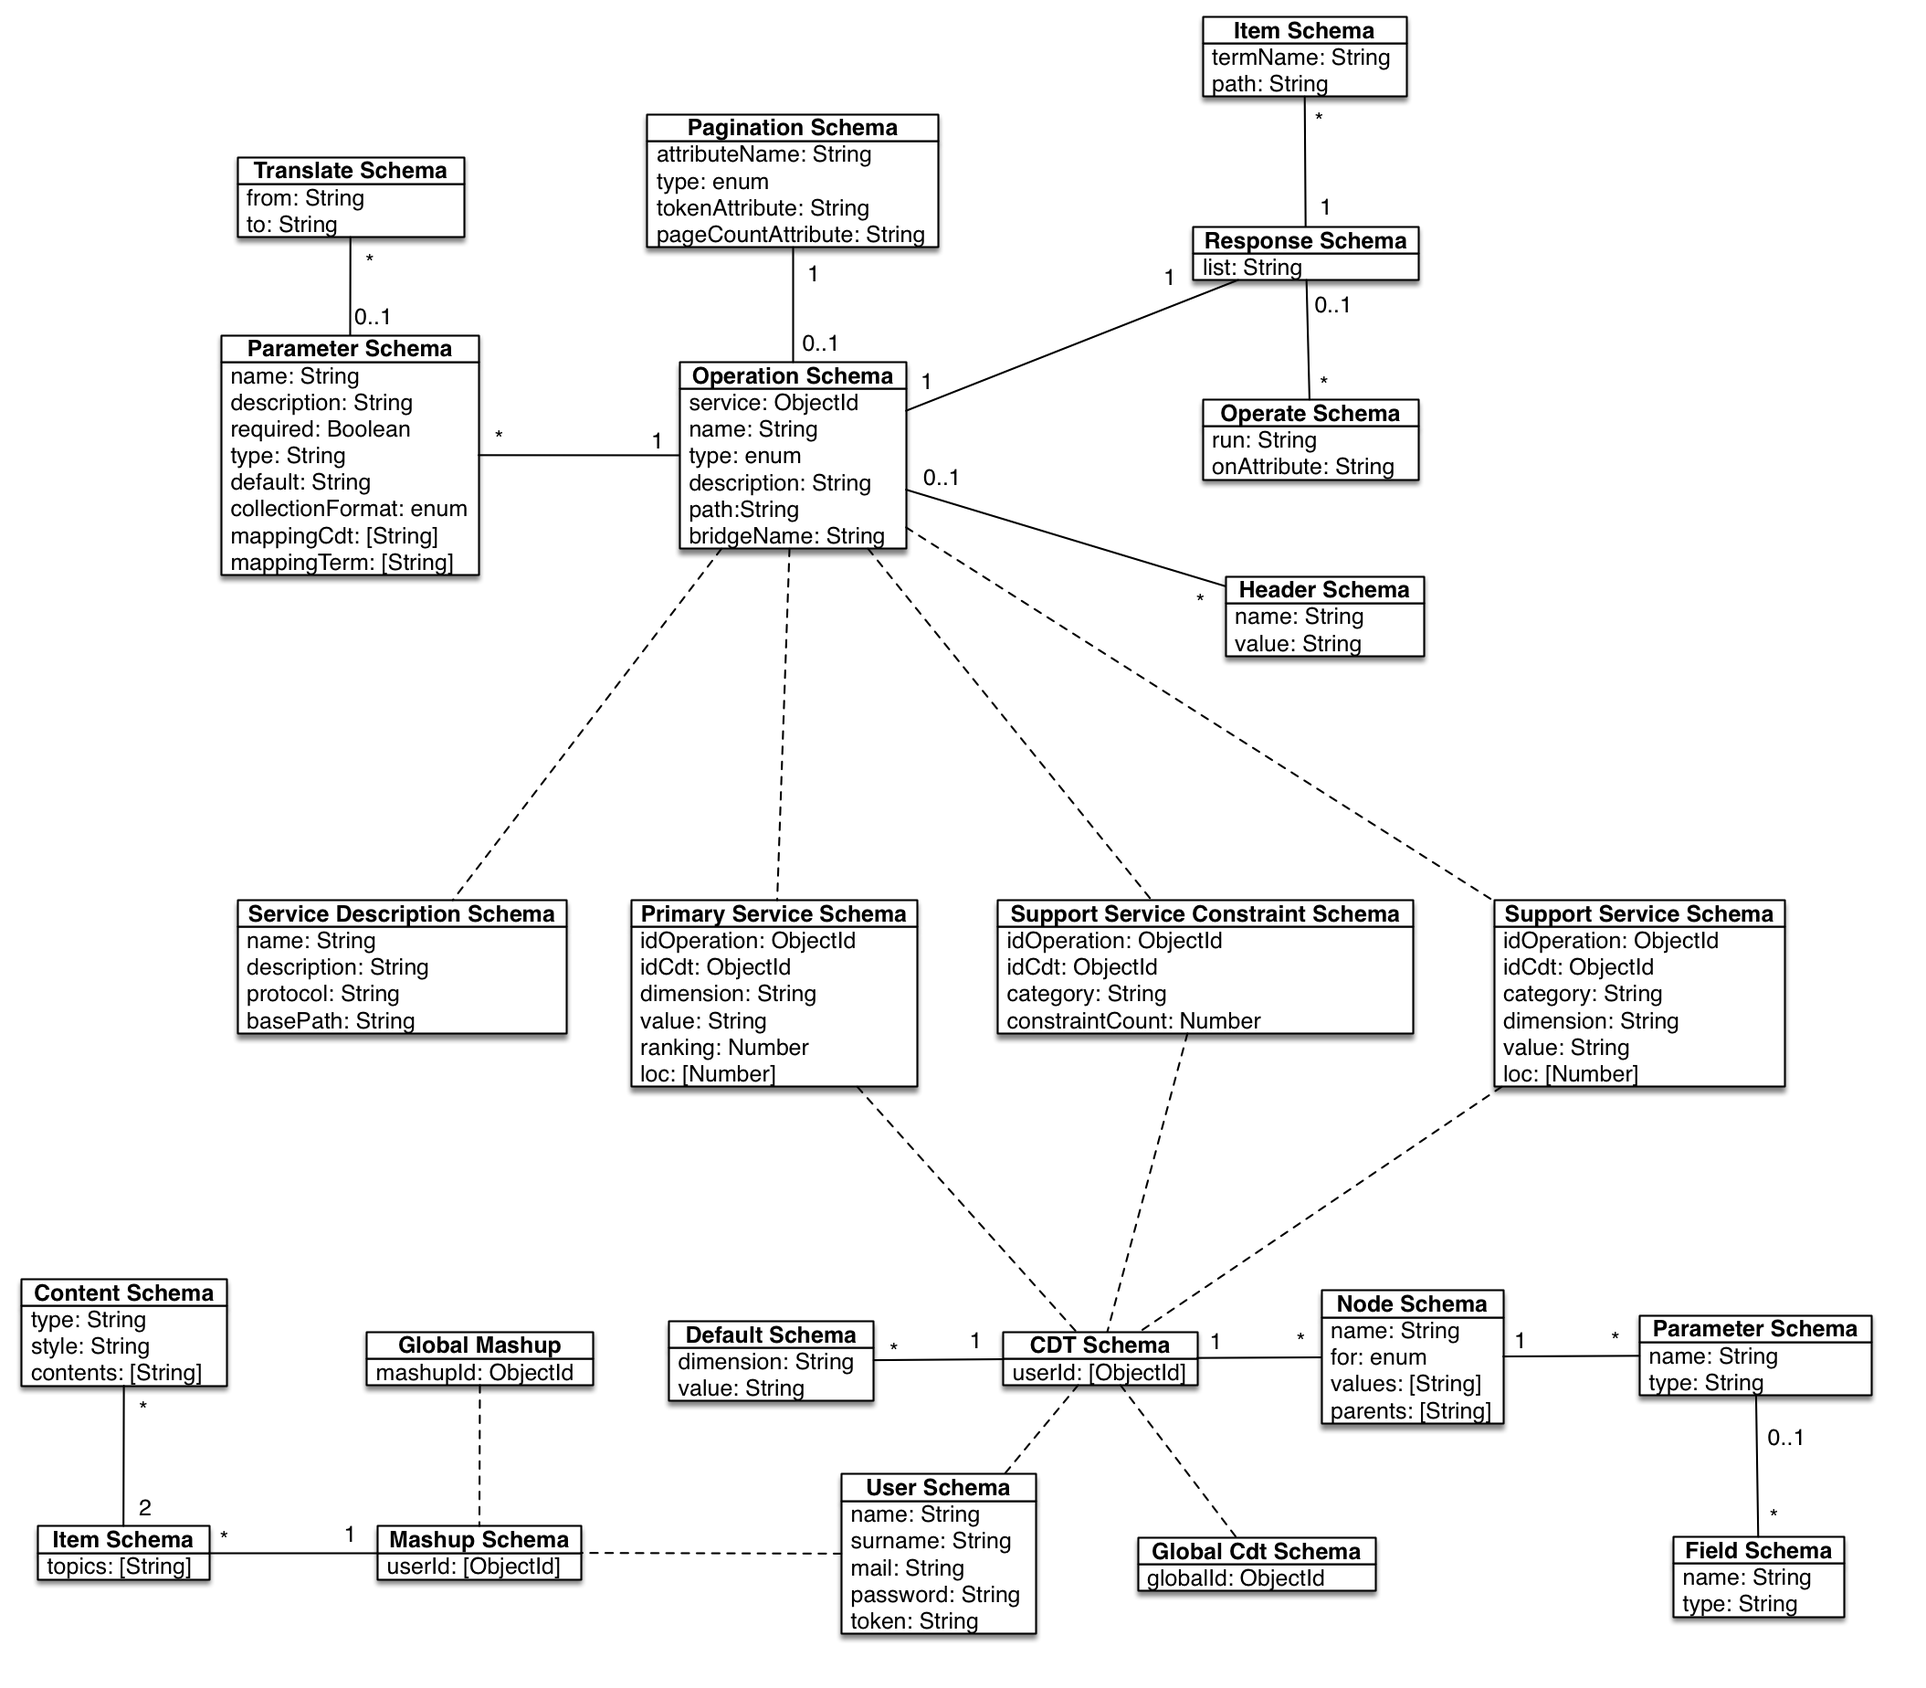
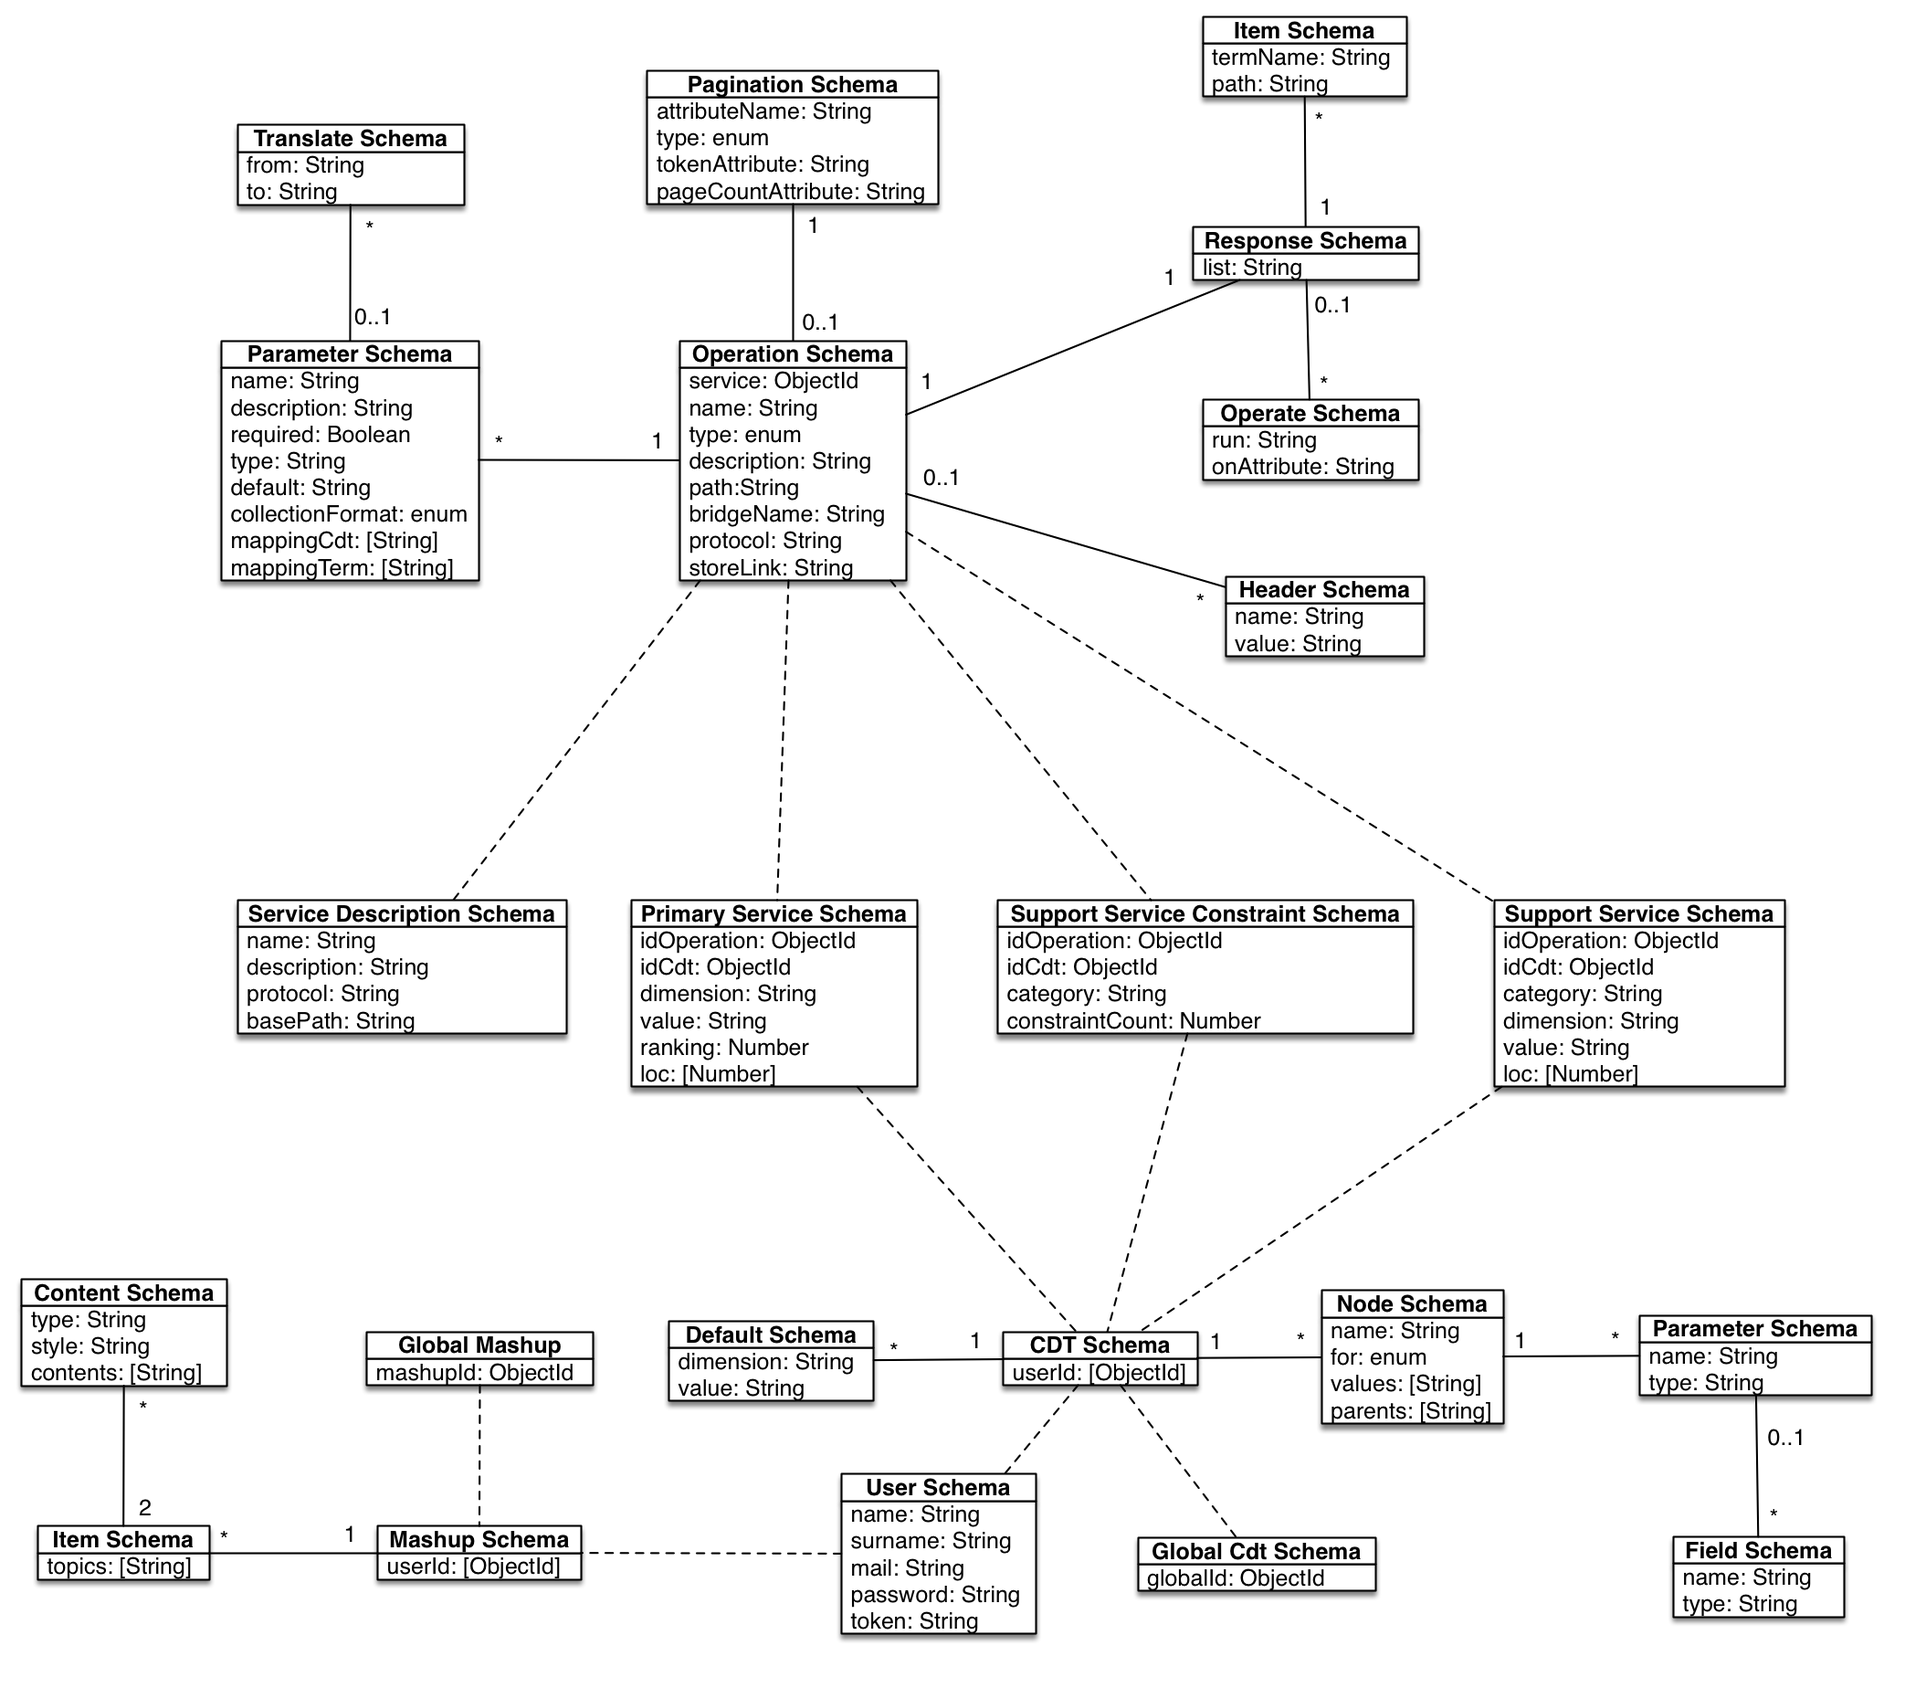
Correzione nel capitolo implementazione backend

diff --git a/5-implementazione-backend/implementazione-backend.tex b/5-implementazione-backend/implementazione-backend.tex
@@ -169,6 +169,8 @@ Rappresenta le operazioni che sono messe a disposizione dal servizio. Un'operazi
 	\item \textbf{Type} Rappresenta la tipologia dell'operazione. Un'operazione può essere \emph{primaria} o di \emph{supporto}. Questa distinzione viene utilizzata principalmente per permettere la catalogazione delle operazioni da mostrare nelle web app
 	\item \textbf{Description} La descrizione dell'attività svolta dall'operazione
 	\item \textbf{Path} Il percorso specifico per richiamare l'operazione. Questo valore viene aggiunto al \emph{Base Path} del servizio. Deve essere sempre preceduto da una slash (\virgolette{/})
+	\item \textbf{Protocol} Permette di ridefinire esclusivamente per l'operazione corrente il protocollo utilizzato. \upe utile nei casi in cui un'operazione, per una qualsiasi ragione, utilizza un paradigma di composizione della query diverso da quello specificato dal servizio. Per esempio, viene utilizzato per mappare gli intent su diversi sistemi operativi, che hanno diverse regole di composizione. Oltre alle tipologie definite per i \emph{servizi} supporta anche il protocollo \virgolette{android}
+	\item \textbf{Store Link} Utilizzato esclusivamente per i servizi di supporto, permette di definire il link nello store di riferimento per scaricare l'app necessaria a utilizzare l'intent associato
 	\item \textbf{Bridge Name} Questo campo è opzionale, definisce il nome del bridge con la logica necessaria per invocare il servizio. \upe obbligatorio il suo utilizzo quando per il servizio viene utilizzato il protocollo \emph{custom}
 	\item \textbf{Parameters} Definisce l'elenco dei parametri accettati in ingresso dall'operazione. Per ulteriori dettagli su questo oggetto si fa riferimento alla Sezione \ref{sec:descrittore-parametri}
 	\item \textbf{Headers} Permette di specificare gli attributi da aggiungere all'header della richiesta. Vengono utilizzati i campi \virgolette{name} per specificare il nome dell'attributo e \virgolette{value} per specificarne il valore
@@ -314,59 +316,16 @@ Di seguito viene presentata una descrizione dettagliata delle entità che compon
 \begin{itemize}
 	\item \textbf{User} \upe l'entità che rappresenta un utente. Ogni utente viene descritto dal nome, cognome, indirizzo email, password e da un token che viene utilizzato per identificare la sessione. Un utente può possedere nessuno o più CDT
 	\item \textbf{Cdt} Rappresenta la radice di un albero di contesto. Un albero di contesto può essere posseduto da zero o più utenti. Il \emph{CDT Globale} è l'unico caso nel quale non vengono associati utenti, perché è universale e quindi valido per chiunque. In tutti gli altri casi si tratta di \emph{CDT su misura}, che devono quindi essere associati ad almeno un utente. Viene lasciata la possibilità di associazione con più utenti nel caso il loro profilo sia molto simile
-	\item \textbf{Node} Rappresenta un nodo \emph{dimensione} del CDT e viene descritto dai seguenti attributi:
-	\begin{itemize}
-		\item \emph{Name} Il nome del nodo
-		\item \emph{For} Descrive la tipologia del nodo, che verrà utilizzata per assegnare un peso utile nella fase di \emph{selezione delle operazioni} e per attribuire un valore ai parametri nella fase di \emph{invocazione dei servizi}. I valori ammessi sono \emph{filter}, \emph{parameter}, \emph{ranking}, \emph{filter}|\emph{parameter} o \emph{ranking}|\emph{parameter}. Se viene definito il tipo \emph{parameter} possono essere assegnati al nodo diverse entità di tipo \virgolette{Node Parameter}, per specificarne le caratteristiche
-		\item \emph{Parents} Contiene l'elenco di tutti i nodi dai quali discende il nodo corrente
-		\item \emph{Values} Elenca i valori ammessi dal nodo dimensione corrente. Corrispondono ai nodi di tipo \emph{contesto} nel modello del CDT
-	\end{itemize}
-	\item \textbf{Node Parameter} Questa entità rappresenta un parametro associato ad un nodo del CDT. Viene caratterizzato dai seguenti campi:
-	\begin{itemize}
-		\item \emph{Name} Definisce il nome del parametro
-		\item \emph{Type} Il/I formato/i del dato che vengono accettati
-	\end{itemize}
-	Ad un parametro possono essere associati diversi \virgolette{campi}, nel caso in cui un parametro sia definito da diversi sottoattributi. Per esempio, il parametro \emph{Località} può essere specializzato nei campi \emph{Latitudine} e \emph{Longitudine}
+	\item \textbf{Node} Rappresenta un nodo \emph{dimensione} del CDT
+	\item \textbf{Node Parameter} Questa entità rappresenta un parametro associato ad un nodo del CDT. Ad un parametro possono essere associati diversi \virgolette{campi}, nel caso in cui un parametro sia definito da diversi sottoattributi. Per esempio, il parametro \emph{Località} può essere specializzato nei campi \emph{Latitudine} e \emph{Longitudine}
 	\item \textbf{Field} \upe l'entità che rappresenta un campo di un parametro. \upe composto dal \virgolette{nome} che assume ed il \virgolette{tipo}, che descrive il formato del campo
 	\item \textbf{Default Value} Questa entità elenca le coppie dimensione-valore che sono preimpostate, in quanto non subiscono variazioni per l'utente ed è inutile che gli vengano continuamente riproposte. Vengono salvati solamente il nome della \virgolette{dimensione} ed il relativo \virgolette{valore}
 	\item \textbf{GlobalCdt} Entità che mantiene il riferimento al \emph{CDT Globale}, che viene utilizzato come base per la costruzione di tutti gli alberi di contesto del sistema
-	\item \textbf{Service} Entità che rappresenta un servizio, definito dai seguenti campi:
-	\begin{itemize}
-		\item \emph{Name} Il nome del servizio
-		\item \emph{Description} Una descrizione delle operazioni che vengono svolte dal servizio
-		\item \emph{Base Path} Definisce l'indirizzo base al quale è possibile contattare il servizio. Viene utilizzato insieme ai \emph{path} specifici di ogni operazione per formare l'indirizzo completo
-		\item \emph{Protocol} Specifica la tipologia di servizio e può assumere i valori \emph{rest}, \emph{query} o \emph{custom}. Per i primi due casi esiste un'implementazione fornita assieme al sistema mentre per l'ultimo caso è necessario specificare quale bridge specifico viene utilizzato per invocare il servizio
-	\end{itemize}
-	Un servizio deve esporre almeno un'\emph{operazione} per poter essere utilizzato
-	\item \textbf{Operation} Un'operazione rappresenta l'elemento essenziale affinché un servizio possa essere invocato. Possiede i seguenti attributi:
-	\begin{itemize}
-		\item \emph{Name} Il nome dell'operazione. Questo campo viene utilizzato principalmente per avere un riferimento intuitivo delle varie operazioni che vengono esposte da ogni servizio e può essere scelto a proprio piacimento
-		\item \emph{Description} Descrizione dell'attività che viene svolta dall'operazione
-		\item \emph{Path} Definisce il percorso specifico verso il quale richiamare l'operazione. Questo campo viene concatenato assieme al \emph{basePath} definito dal servizio per formare l'indirizzo completo
-		\item \emph{Type} Specifica se l'operazione è di tipo \emph{primario} o di \emph{supporto}. Questa distinzione è più di carattere categorico che funzionale, in quanto non ci sono particolari variazioni tra le due tipologie di operazione. Viene utilizzato dallo strumento di \emph{Visual Mapping} per elencare nello spazio più appropriato le varie operazioni
-		\item \emph{Bridge Name} Questo campo definisce il nome dell'implementazione specifica del bridge da utilizzare per invocare il servizio. \upe necessario solamente nel caso in cui il servizio utilizzi un protocollo \emph{custom}
-	\end{itemize}
-	Ogni operazione ha una serie di informazioni di contorno che possono essere associate. Deve obbligatoriamente definire un'entità per descrivere il formato della \emph{risposta} che riceve e può esporre gli attributi necessari per gestire la \emph{paginazione} dei risultati. Possono essere associati più campi relativi ai valori da aggiungere all'\emph{header} della chiamata quando necessari. Affinché un'operazione sia utilizzabile, è necessario definire almeno un \emph{parametro} per assegnare i valori che il servizio utilizzerà per comporre la risposta
-	\item \textbf{Parameter} Questa entità specifica come sono formati gli attributi che compongono un parametro. In particolare viene descritta dai seguenti campi:
-	\begin{itemize}
-		\item \emph{Name} Il nome del parametro
-		\item \emph{Type} Il formato del valore associato al parametro
-		\item \emph{Description} La descrizione della semantica del parametro
-		\item \emph{Required} Valore booleano che specifica se il parametro è obbligatorio o meno per l'operazione associata. Di default assume valore \emph{false}
-		\item \emph{Default} Specifica un valore predefinito, che viene utilizzato in particolare nella fase di \emph{Visual Mapping} per mostrare una risposta di esempio
-		\item \emph{Collection Format} Viene utilizzato solamente nel caso in cui ci siano più valori associati e definisce il separatore da usare per dividere i valori. I separatori riconosciuti sono \emph{csv} (comma separated values), \emph{ssv} (space separated values), \emph{tsv} (tab separated values) e \emph{pipes}.
-		\item \emph{Mapping Term} Viene utilizzato per associare il parametro ad uno dei \emph{termini semantici} conosciuti dal sistema. Viene utilizzato per la composizione della query per i servizi di supporto ed accetta la definizione di più termini
-		\item \emph{Mapping Cdt} Specifica da quale nodo dell'\emph{albero di contesto} è possibile recuperare il valore da associare al parametro. Possono essere aggiunti più nodi verso i quali andare a cercare i valori
-	\end{itemize}
-	In alcuni casi può essere anche definita una \emph{traduzione} per permettere di trasformare il valore definito dal contesto in uno più idoneo per il servizio
+	\item \textbf{Service} Entità che rappresenta un servizio, definito dai seguenti campi. Un servizio deve esporre almeno un'\emph{operazione} per poter essere utilizzato
+	\item \textbf{Operation} Un'operazione rappresenta l'elemento essenziale affinché un servizio possa essere invocato. Ogni operazione ha una serie di informazioni di contorno che possono essere associate. Deve obbligatoriamente definire un'entità per descrivere il formato della \emph{risposta} che riceve e può esporre gli attributi necessari per gestire la \emph{paginazione} dei risultati. Possono essere associati più campi relativi ai valori da aggiungere all'\emph{header} della chiamata quando necessari. Affinché un'operazione sia utilizzabile, è necessario definire almeno un \emph{parametro} per assegnare i valori che il servizio utilizzerà per comporre la risposta
+	\item \textbf{Parameter} Questa entità specifica come sono formati gli attributi che compongono un parametro. In alcuni casi può essere anche definita una \emph{traduzione} per permettere di trasformare il valore definito dal contesto in uno più idoneo per il servizio
 	\item \textbf{Translate} Questa entità definisce come effettuare una traduzione da un valore, generalmente recuperato dall'albero di contesto, verso un altro riconosciuto dal servizio. Viene semplicemente descritta dai campi \virgolette{from} e \virgolette{to}, che rappresentano rispettivamente il valore originale e la sua traduzione finale
-	\item \textbf{Pagination} Specifica quali sono gli attributi della risposta usati per gestire la paginazione dei risultati. In particolare, sono necessarie le seguenti informazioni:
-	\begin{itemize}
-		\item \emph{Attribute Name} Definisce il nome del parametro utilizzato dall'operazione per richiamare la pagina successiva. Deve corrispondere al nome fornito dal gestore del servizio
-		\item \emph{Type} Specifica il tipo di paginazione utilizzata dal servizio. Il sistema supporta due tipologie: \emph{i)} number, dove viene utilizzato un numero per identificare ogni pagina; \emph{ii)} token, dove vengono generati diversi token per richiamare le diverse pagine
-		\item \emph{Page Count Attribute} Indica il nome del campo della risposta che contiene il numero totale di pagine che sono disponibili per la query corrente. Viene utilizzato unicamente nel caso sia stato scelto come tipo \emph{number}. Serve al sistema per sapere fino a quando è possibile incrementare il numero di pagina per recuperare nuove informazioni
-		\item \emph{Token Attribute} Indica il nome del campo della risposta che contiene il token alla pagina successiva. Viene utilizzato unicamente nel caso sia stato scelto come tipo \emph{token}. Il token recuperato viene utilizzato nella query successiva per richiedere la nuova pagina con altre informazioni. A differenza del caso precedente non è possibile sapere a priori quante siano le pagine in totale. Semplicemente, quando il servizio non fornisce più token significa che non sono più disponibili ulteriori pagine
-	\end{itemize}
+	\item \textbf{Pagination} Specifica quali sono gli attributi della risposta usati per gestire la paginazione dei risultati
 	\item \textbf{Header} Questa entità definisce gli attributi che devono essere aggiunti all'header di un richiesta. \upe formato dal \virgolette{nome} del campo ed il \virgolette{valore} da associargli
 	\item \textbf{Response} \upe l'entità che descrive il formato della risposta ricevuta e definisce come mappare gli attributi che la compongono con i termini semantici. Viene utilizzato il campo \virgolette{list} per specificare il percorso all'interno della risposta dove è possibile andare a recuperare l'elenco dei risultati. Se non specificato viene presa la radice dell'oggetto ricevuto. Inoltre vengono definite diverse associazioni con l'entità \emph{Item}, che definisce come mappare ogni singolo elemento della risposta ai rispettivi termini semantici. In aggiunta è possibile definire delle funzioni che vengono eseguite in seguito alla fase di trasformazione, per permettere la personalizzazione dei valori ricevuti
 	\item \textbf{Item} Permette di definire la regola con la quale convertire un campo della risposta nel relativo termine semantico. \upe composto dal campo \virgolette{path}, che specifica il percorso del campo, e \virgolette{termName}, che definisce il termine da associargli
@@ -679,6 +638,10 @@ Nel Listato \ref{lst:esempio-richiesta-execute-query} viene mostrato un esempio 
 			{
 				@dimension@: ~"Transport"~,
 				@value@: ~"PublicTransport"~
+			},
+			{
+				@dimension#: ~"OS"~,
+				@value@: ~"iOS"~
 			}
 		],
 		@support@: [~"Transport"~]
@@ -701,6 +664,7 @@ Nel Listato \ref{lst:esempio-richiesta-execute-query} viene mostrato un esempio 
 				!category!
 				!service!
 				!url!
+				!storeLink!
 			}
 		}
 	}

diff --git a/tesi.tex b/tesi.tex
@@ -155,7 +155,7 @@
 
 %comandi personalizzati
 \newcommand{\virgolette}[1]{``#1''}
-\newcommand{\upe}{\`E}
+\newcommand{\upe}{\`E }
 \newcommand{\Csh}{C\includegraphics{hash-symbol}}
 
 
